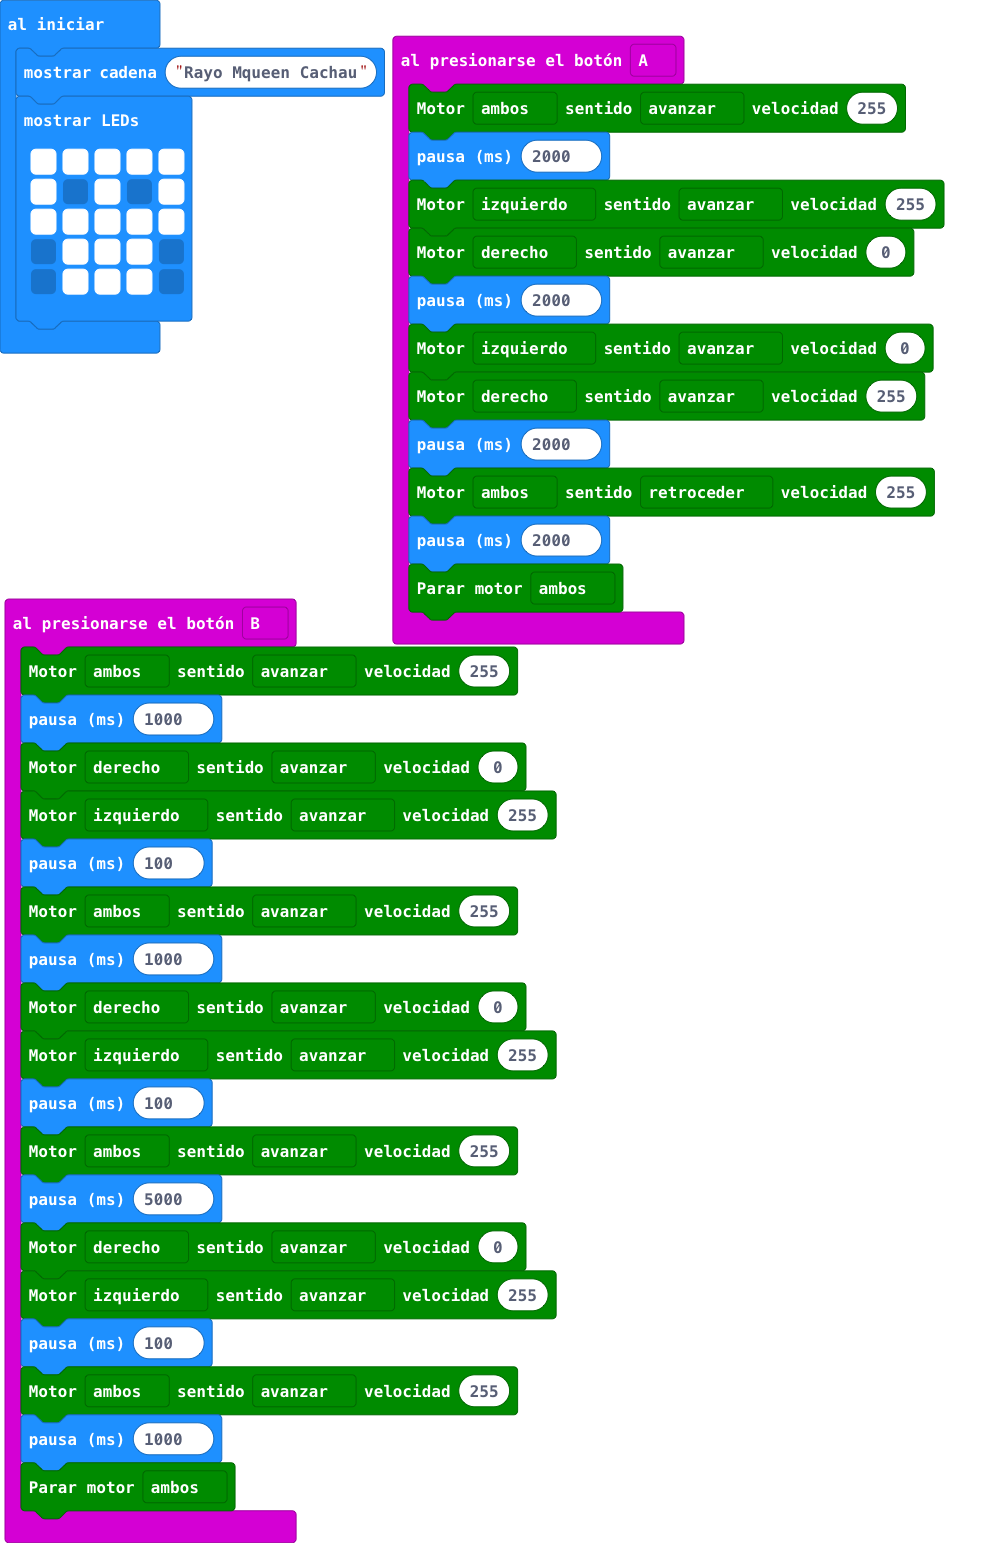
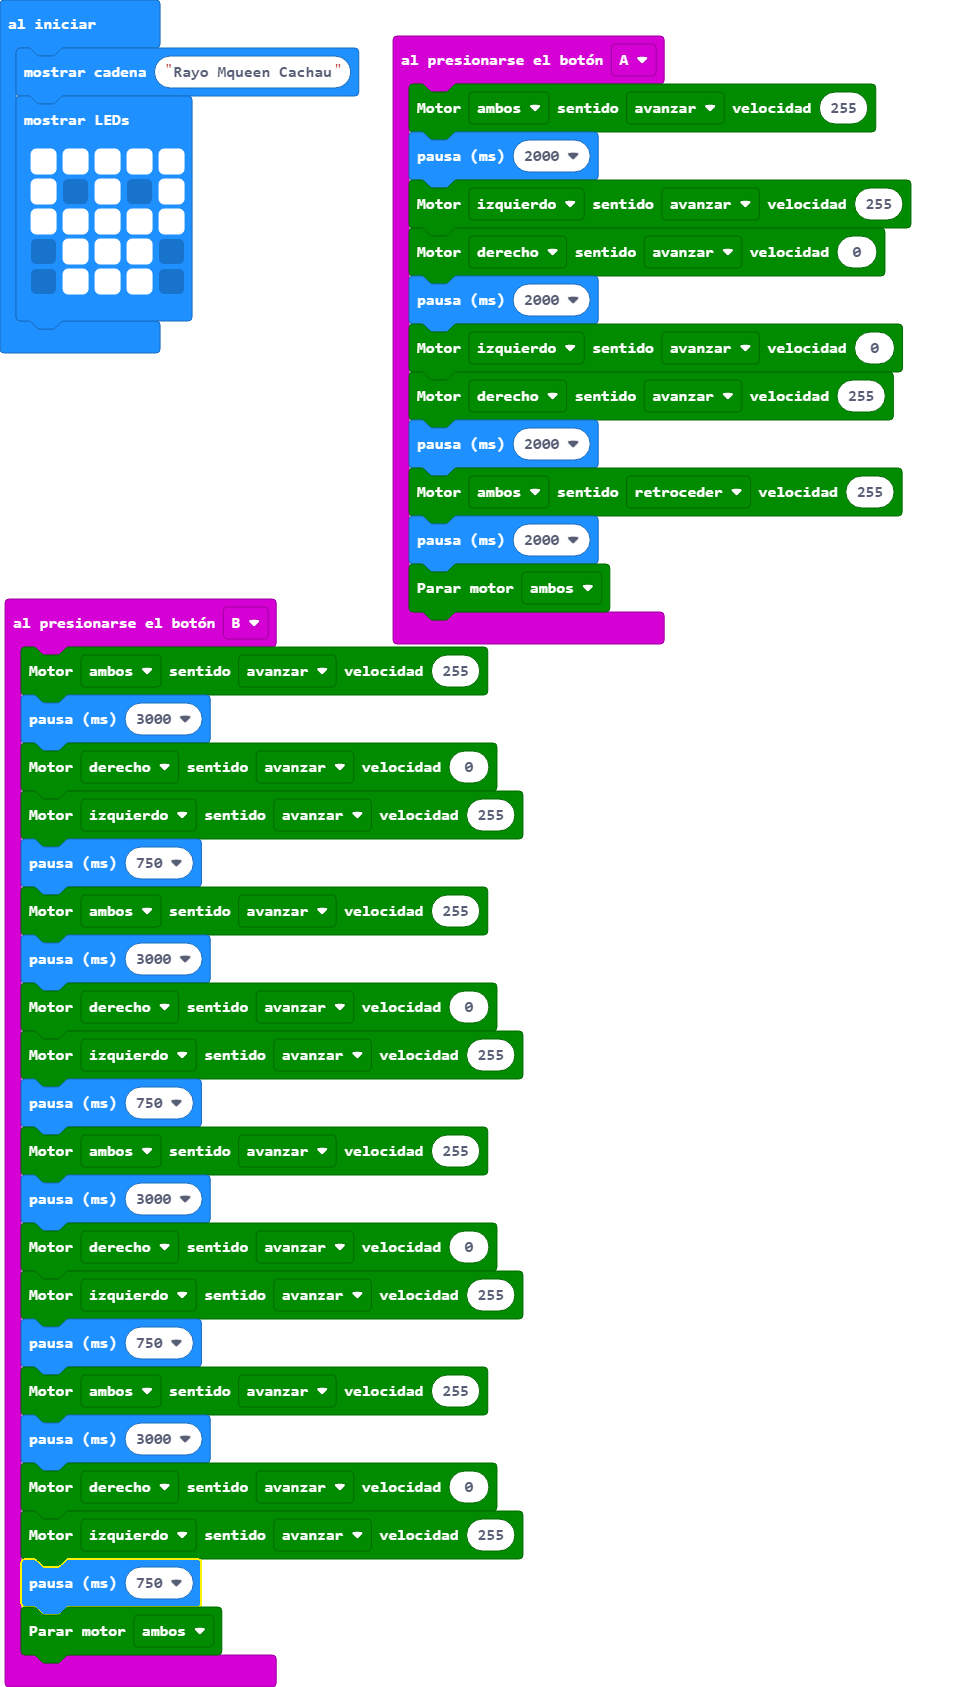
Actualizar main.blocks, main.ts

diff --git a/main.ts b/main.ts
@@ -13,22 +13,25 @@ input.onButtonPressed(Button.A, function () {
 })
 input.onButtonPressed(Button.B, function () {
     maqueen.motorRun(maqueen.Motors.All, maqueen.Dir.CW, 255)
-    basic.pause(1000)
+    basic.pause(3000)
     maqueen.motorRun(maqueen.Motors.M2, maqueen.Dir.CW, 0)
     maqueen.motorRun(maqueen.Motors.M1, maqueen.Dir.CW, 255)
-    basic.pause(100)
+    basic.pause(750)
     maqueen.motorRun(maqueen.Motors.All, maqueen.Dir.CW, 255)
-    basic.pause(1000)
+    basic.pause(3000)
     maqueen.motorRun(maqueen.Motors.M2, maqueen.Dir.CW, 0)
     maqueen.motorRun(maqueen.Motors.M1, maqueen.Dir.CW, 255)
-    basic.pause(100)
+    basic.pause(750)
     maqueen.motorRun(maqueen.Motors.All, maqueen.Dir.CW, 255)
-    basic.pause(5000)
+    basic.pause(3000)
     maqueen.motorRun(maqueen.Motors.M2, maqueen.Dir.CW, 0)
     maqueen.motorRun(maqueen.Motors.M1, maqueen.Dir.CW, 255)
-    basic.pause(100)
+    basic.pause(750)
     maqueen.motorRun(maqueen.Motors.All, maqueen.Dir.CW, 255)
-    basic.pause(1000)
+    basic.pause(3000)
+    maqueen.motorRun(maqueen.Motors.M2, maqueen.Dir.CW, 0)
+    maqueen.motorRun(maqueen.Motors.M1, maqueen.Dir.CW, 255)
+    basic.pause(750)
     maqueen.motorStop(maqueen.Motors.All)
 })
 basic.showString("Rayo Mqueen Cachau")
